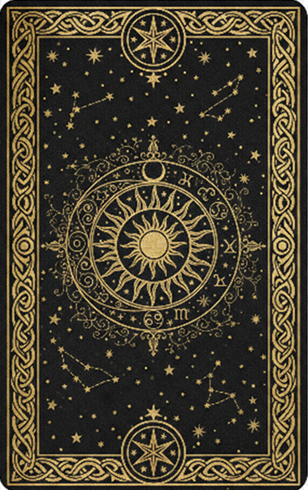
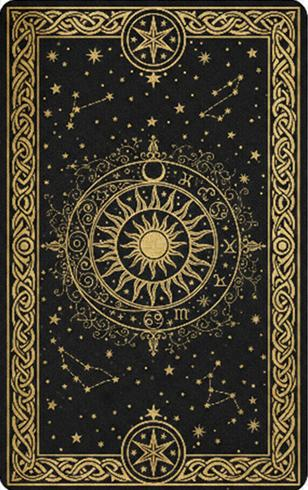
processed image

diff --git a/web/src/components/TarotMain.vue b/web/src/components/TarotMain.vue
@@ -99,7 +99,7 @@
   
   // 3. 背景与图片资源逻辑
   const backgroundStyle = computed(() => ({
-    backgroundImage: `url(${new URL('../assets/background.png', import.meta.url).href})`,
+    backgroundImage: `url(${new URL('../assets/background.webp', import.meta.url).href})`,
     backgroundSize: 'cover',
     backgroundPosition: 'center'
   }));

diff --git a/web/vite.config.ts b/web/vite.config.ts
@@ -10,6 +10,7 @@ export default defineConfig({
       '/api': {
         target: 'http://localhost:8080',
         changeOrigin: true,             // 允许跨域
+        rewrite: (path) => path.replace(/^\/api/, '')
       }
     }
   },

diff --git a/web/src/style.css b/web/src/style.css
@@ -1,3 +1,11 @@
+html, body {
+  margin: 0;
+  padding: 0;
+  width: 100%;
+  height: 100%;
+}
+
+
 /* 遮罩层：透明度调低，不影响看牌阵，点击空白处可关闭 */
 .modal-overlay {
   position: fixed;

diff --git a/main.go b/main.go
@@ -28,7 +28,7 @@ func main() {
 
 	r := gin.Default()
 
-	r.POST("/api/predict", api.HandlePredict)
+	r.POST("/predict", api.HandlePredict)
 
 	port := os.Getenv("PORT")
 	if port == "" {
